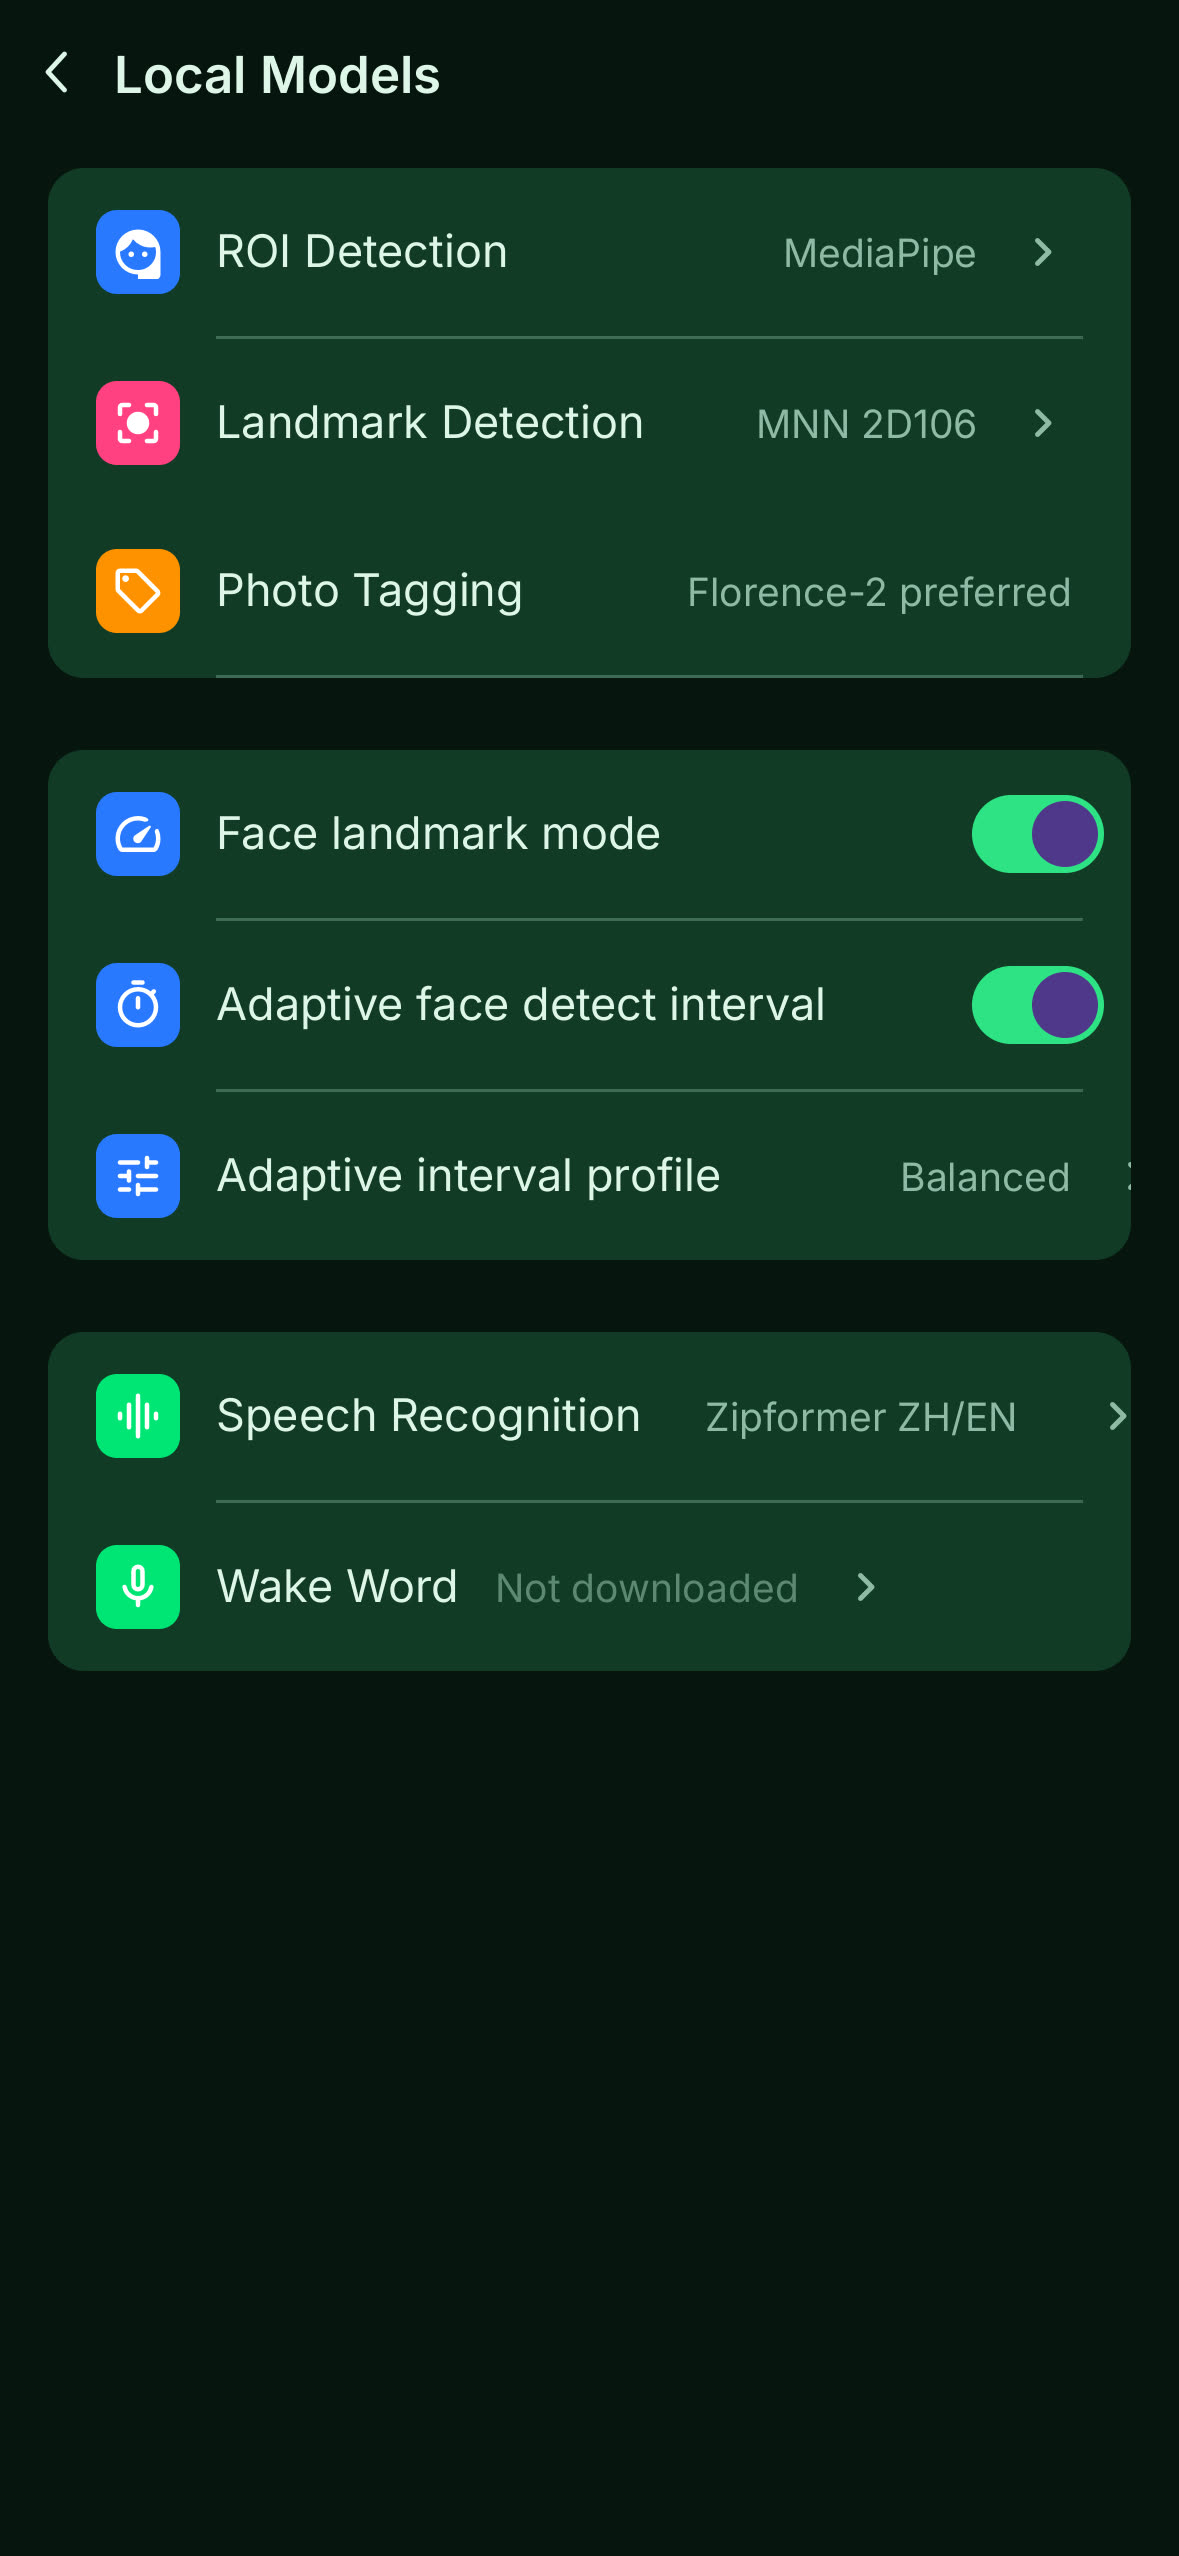
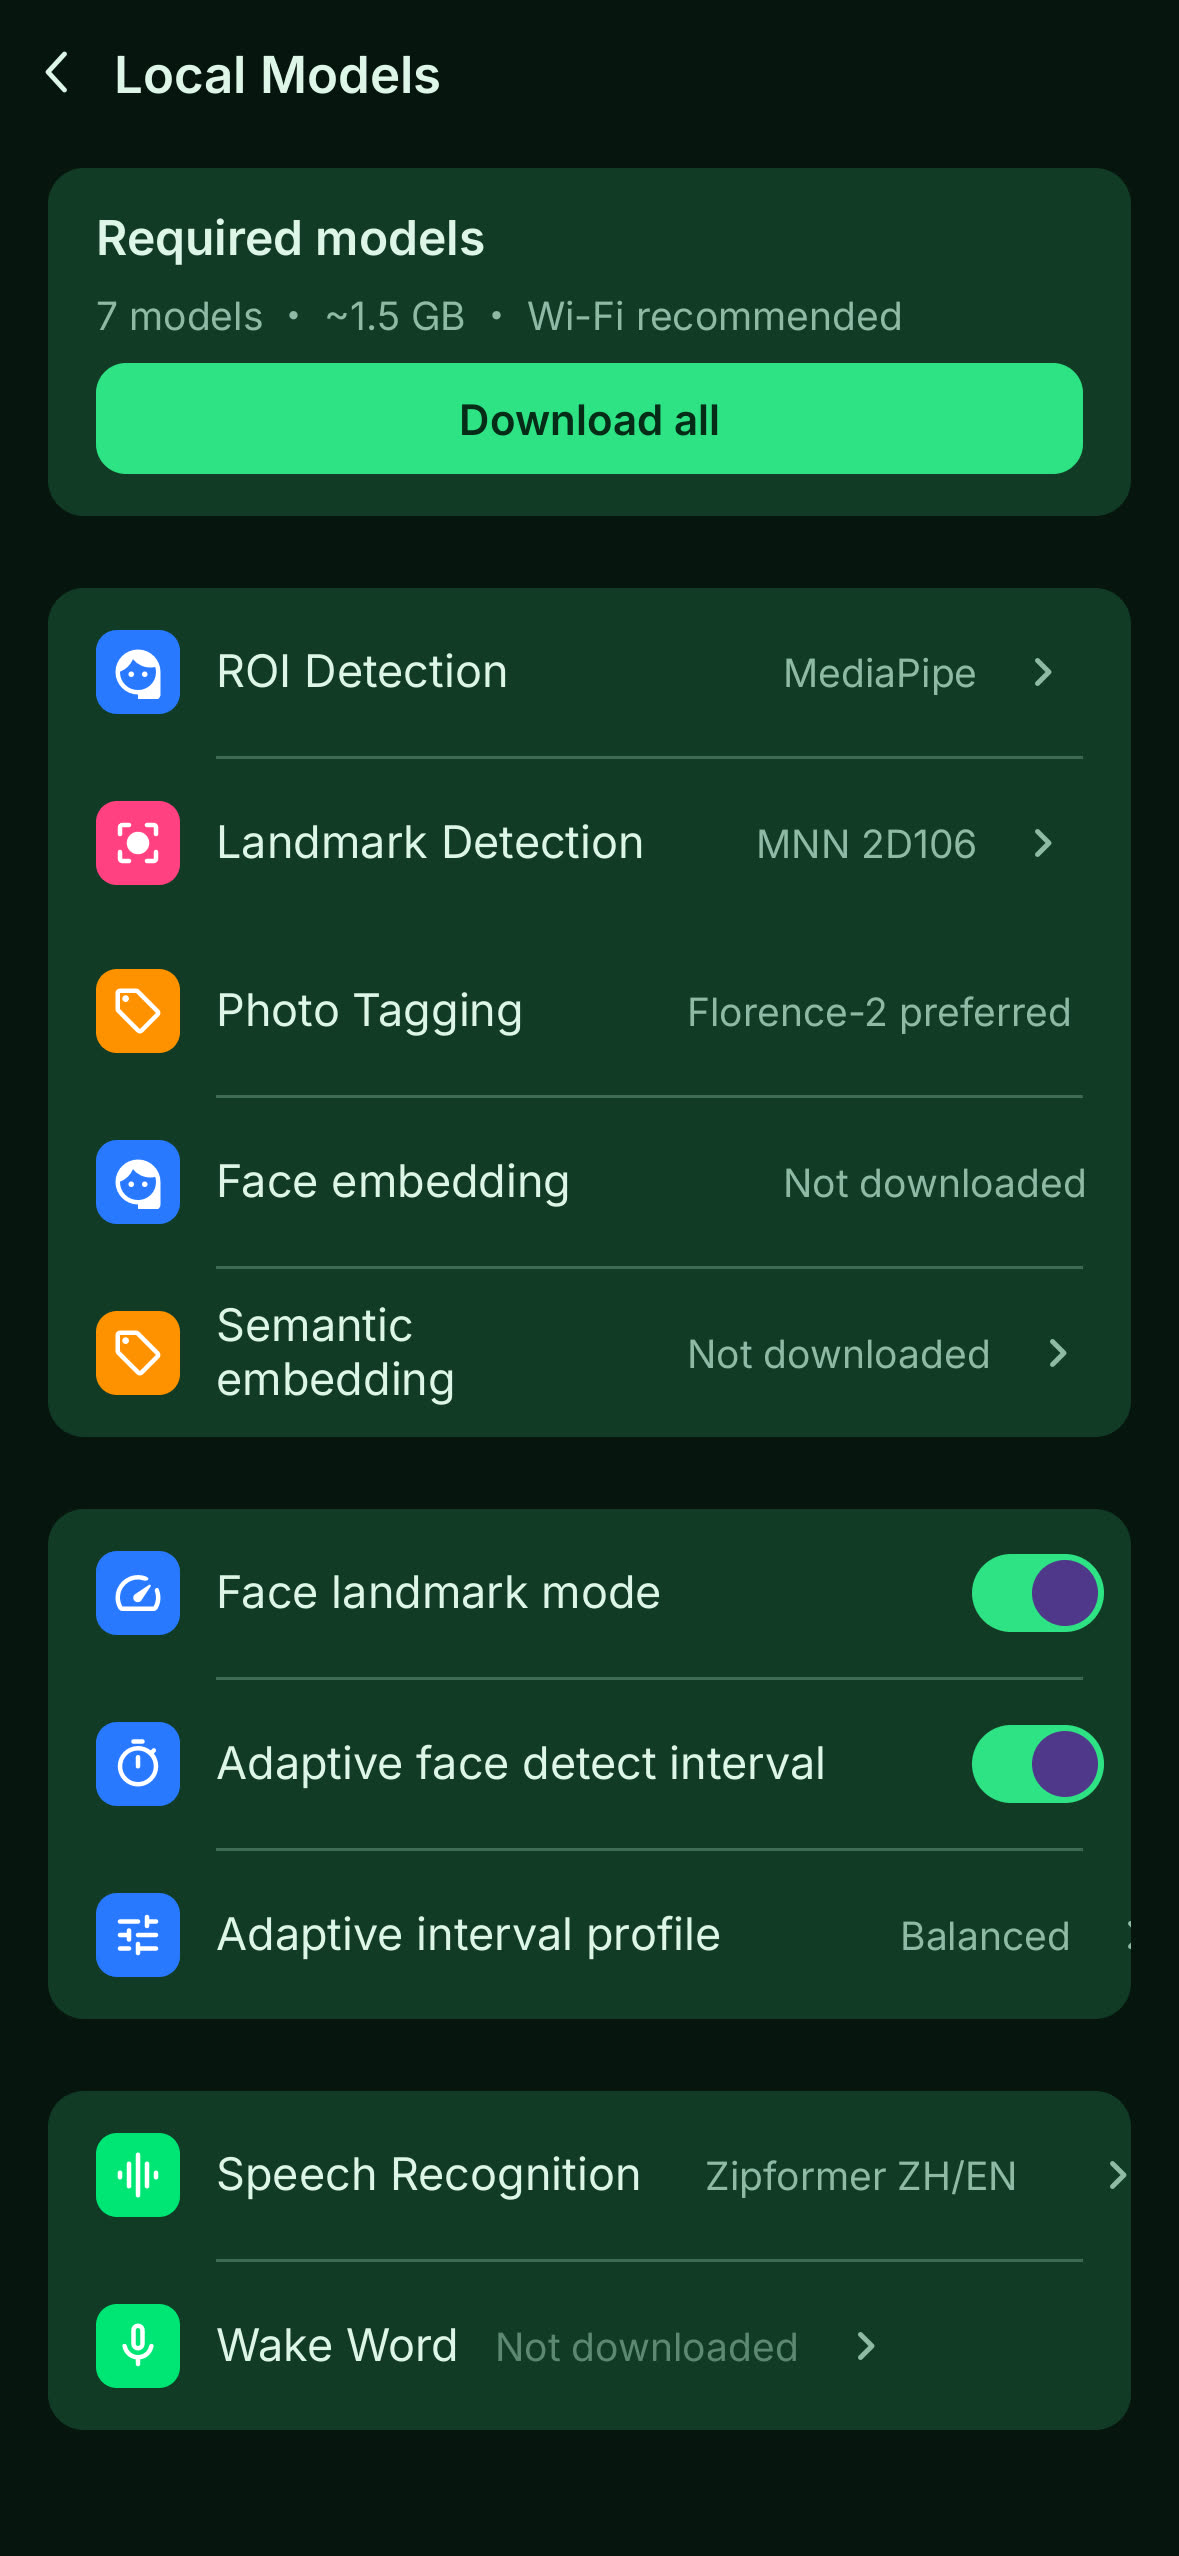
fix(site): 上手指南图彻底重做——设计稿补齐整屏完成度,废弃补黑边方案
- settings/local_models 设计帧补全(App 真实信息架构): 新增'必须模型'
  汇总卡(7个·1.5GB·一键下载,对齐 LlmModelManagerScreen)+人脸嵌入/
  语义编码两行(UI Language 集 7 个新双语变量),高度 852 整屏收满,
  7 个模型数与文案自洽
- setup-4 改为内容节点导出裁至 sec_ai_system 边界(914px)+24px 底
  呼吸,杜绝贴边截断;entry 换 organize/hub 全屏帧(贴合'从设置和
  相册整理开始'文案,根治与 setup-4 重复)
- 全组零黑边补丁:所有图=整屏帧直接渲染或干净边界裁切
- 坑:页级语言模式 pin 不传导到子节点导出(主题却生效),须在导出
  节点本体 pin 再验 SSIM≠1;zsh 变量不分词致 rsync 静默失败×2
- 双站已部署(xuxingzhiyuan.cn/polang.net/8100 三处字节一致),?v=-4

diff --git a/docs-site/index.html b/docs-site/index.html
@@ -89,13 +89,13 @@
       <div class="guide-carousel" id="guideCarousel">
         <div class="guide-viewport">
           <div class="guide-track">
-            <div class="guide-slide"><img src="assets/setup-1.jpg?v=20260918-3" alt="下载必备模型"><div class="guide-cap"><span class="gs">第 1 步</span><h3>📦 下载必备模型</h3><p>相册的打标、人脸识别、语义搜索都依赖端侧 AI 模型。在「模型中心 → 必须」一键下载，共 <b>7 个模型、约 1.5 GB</b>。</p><div class="gtags"><span class="gtag must">必需</span><span class="gtag">≈ 1.5 GB</span><span class="gtag">建议 WiFi</span></div></div></div>
-            <div class="guide-slide"><img src="assets/setup-2.jpg?v=20260918-3" alt="跑一次扫描"><div class="guide-cap"><span class="gs">第 2 步</span><h3>🔄 跑一次扫描</h3><p>进入底部 Tab「相册整理」→「扫描」开始扫描，让 App 认识相册里的人和画面（人脸 + 语义），约 <b>1.5 小时 / 万张</b>。记得开启<b>后台保活</b>。</p><div class="gtags"><span class="gtag must">必需</span><span class="gtag">~1.5 h / 万张</span></div></div></div>
-            <div class="guide-slide"><img src="assets/setup-3.jpg?v=20260918-3" alt="理解图片内容"><div class="guide-cap"><span class="gs">第 3 步</span><h3>🧠 理解图片内容</h3><p>想让「搜海边」「找夜景」更准？再跑一遍图片内容理解，生成场景、物体、活动标签，约 <b>24 小时 / 万张</b>，建议插电过夜。</p><div class="gtags"><span class="gtag opt">可选增强</span><span class="gtag">~24 h / 万张</span></div></div></div>
-            <div class="guide-slide"><img src="assets/setup-4.jpg?v=20260918-3" alt="注册账号领额度"><div class="guide-cap"><span class="gs">第 4 步</span><h3>🔑 注册账号领额度</h3><p>AI 对话默认走远程大模型，邮箱注册即享<b>更高的免费额度</b>（访客额度较少），对话需联网。</p><div class="gtags"><span class="gtag">远程对话</span><span class="gtag">免费额度</span></div></div></div>
-            <div class="guide-slide"><img src="assets/setup-5.jpg?v=20260918-3" alt="教 AI 认识你的人"><div class="guide-cap"><span class="gs">第 5 步</span><h3>👥 教 AI 认识你的人</h3><p>给识别出的人物<b>命名、标注关系</b>（家人 / 朋友…），并在「<b>AI 记忆</b>」补充事实，AI 在对话中会越来越懂你。</p><div class="gtags"><span class="gtag opt">让 AI 更聪明</span><span class="gtag">人物关系</span></div></div></div>
-            <div class="guide-slide"><img src="assets/setup-6.jpg?v=20260918-3" alt="远程控制"><div class="guide-cap"><span class="gs">第 6 步</span><h3>📡 远程控制（可选）</h3><p>配置<b>飞书 / Telegram</b>，在 IM 里用自然语言指挥相册，结果直接回到聊天。Telegram 长轮询，<b>无需公网 IP</b>。</p><div class="gtags"><span class="gtag opt">进阶</span><span class="gtag">飞书 / Telegram</span></div></div></div>
-            <div class="guide-slide"><img src="assets/setup-preview.jpg?v=20260918-3" alt="准备就绪"><div class="guide-cap"><span class="gs">准备就绪</span><h3>✨ 对 AI 说句话试试</h3><p>「找去年夏天在海边的照片」——命中相关照片并智能分组。所有搜索、人物、场景识别都<b>在本地完成</b>，照片不上传。</p><div class="gtags"><span class="gtag">本地隐私</span><span class="gtag">自然语言搜索</span></div></div></div>
+            <div class="guide-slide"><img src="assets/setup-1.jpg?v=20260918-4" alt="下载必备模型"><div class="guide-cap"><span class="gs">第 1 步</span><h3>📦 下载必备模型</h3><p>相册的打标、人脸识别、语义搜索都依赖端侧 AI 模型。在「模型中心 → 必须」一键下载，共 <b>7 个模型、约 1.5 GB</b>。</p><div class="gtags"><span class="gtag must">必需</span><span class="gtag">≈ 1.5 GB</span><span class="gtag">建议 WiFi</span></div></div></div>
+            <div class="guide-slide"><img src="assets/setup-2.jpg?v=20260918-4" alt="跑一次扫描"><div class="guide-cap"><span class="gs">第 2 步</span><h3>🔄 跑一次扫描</h3><p>进入底部 Tab「相册整理」→「扫描」开始扫描，让 App 认识相册里的人和画面（人脸 + 语义），约 <b>1.5 小时 / 万张</b>。记得开启<b>后台保活</b>。</p><div class="gtags"><span class="gtag must">必需</span><span class="gtag">~1.5 h / 万张</span></div></div></div>
+            <div class="guide-slide"><img src="assets/setup-3.jpg?v=20260918-4" alt="理解图片内容"><div class="guide-cap"><span class="gs">第 3 步</span><h3>🧠 理解图片内容</h3><p>想让「搜海边」「找夜景」更准？再跑一遍图片内容理解，生成场景、物体、活动标签，约 <b>24 小时 / 万张</b>，建议插电过夜。</p><div class="gtags"><span class="gtag opt">可选增强</span><span class="gtag">~24 h / 万张</span></div></div></div>
+            <div class="guide-slide"><img src="assets/setup-4.jpg?v=20260918-4" alt="注册账号领额度"><div class="guide-cap"><span class="gs">第 4 步</span><h3>🔑 注册账号领额度</h3><p>AI 对话默认走远程大模型，邮箱注册即享<b>更高的免费额度</b>（访客额度较少），对话需联网。</p><div class="gtags"><span class="gtag">远程对话</span><span class="gtag">免费额度</span></div></div></div>
+            <div class="guide-slide"><img src="assets/setup-5.jpg?v=20260918-4" alt="教 AI 认识你的人"><div class="guide-cap"><span class="gs">第 5 步</span><h3>👥 教 AI 认识你的人</h3><p>给识别出的人物<b>命名、标注关系</b>（家人 / 朋友…），并在「<b>AI 记忆</b>」补充事实，AI 在对话中会越来越懂你。</p><div class="gtags"><span class="gtag opt">让 AI 更聪明</span><span class="gtag">人物关系</span></div></div></div>
+            <div class="guide-slide"><img src="assets/setup-6.jpg?v=20260918-4" alt="远程控制"><div class="guide-cap"><span class="gs">第 6 步</span><h3>📡 远程控制（可选）</h3><p>配置<b>飞书 / Telegram</b>，在 IM 里用自然语言指挥相册，结果直接回到聊天。Telegram 长轮询，<b>无需公网 IP</b>。</p><div class="gtags"><span class="gtag opt">进阶</span><span class="gtag">飞书 / Telegram</span></div></div></div>
+            <div class="guide-slide"><img src="assets/setup-preview.jpg?v=20260918-4" alt="准备就绪"><div class="guide-cap"><span class="gs">准备就绪</span><h3>✨ 对 AI 说句话试试</h3><p>「找去年夏天在海边的照片」——命中相关照片并智能分组。所有搜索、人物、场景识别都<b>在本地完成</b>，照片不上传。</p><div class="gtags"><span class="gtag">本地隐私</span><span class="gtag">自然语言搜索</span></div></div></div>
           </div>
         </div>
         <button class="guide-arrow guide-prev" aria-label="上一张">‹</button>

diff --git a/docs-site/getting-started.html b/docs-site/getting-started.html
@@ -160,7 +160,7 @@
           <h3>📦 一切从「设置」和底部「相册整理」开始</h3>
           <p>模型下载、账号、人物与远程通道在 App 的「设置」里；扫描入口在底部 Tab「相册整理」→「扫描」。下面每一步都标注了具体入口，界面以最新版本为准。</p>
         </div>
-        <img class="shot" src="assets/setup-entry.jpg?v=20260918-3" alt="设置页入口总览">
+        <img class="shot" src="assets/setup-entry.jpg?v=20260918-4" alt="设置页入口总览">
       </div>
 
       <div class="steps">
@@ -171,12 +171,12 @@
             <p class="step-desc">相册的打标、人脸识别、语义搜索都依赖端侧 AI 模型。进入<b>「模型中心 → 必须」</b>一键下载（共 7 个，约 1.5 GB）。「推荐」里的抠图、语音模型可按需下载。</p>
             <div class="tags"><span class="tag must">必需</span><span class="tag">≈ 1.5 GB</span><span class="tag">建议 WiFi</span></div>
           </div>
-          <div class="step-img"><img src="assets/setup-1.jpg?v=20260918-3" alt="模型中心 · 必须模型"></div>
+          <div class="step-img"><img src="assets/setup-1.jpg?v=20260918-4" alt="模型中心 · 必须模型"></div>
         </div>
 
         <!-- Step 2 -->
         <div class="step alt">
-          <div class="step-img"><img src="assets/setup-2.jpg?v=20260918-3" alt="TAG 生成控制 · 扫描中"></div>
+          <div class="step-img"><img src="assets/setup-2.jpg?v=20260918-4" alt="TAG 生成控制 · 扫描中"></div>
           <div class="step-text">
             <div class="step-head"><span class="step-num">2</span><span class="step-title">跑一次 Pass 1 扫描</span></div>
             <p class="step-desc">让 App 认识你相册里的<b>人和画面</b>。进入底部 Tab<b>「相册整理」→「扫描」</b>开始扫描（人脸检测 + 语义编码，约 1.5 小时 / 万张）。记得按提示开启<b>后台保活</b>，否则退到后台可能被系统暂停。界面以最新版本为准。</p>
@@ -191,12 +191,12 @@
             <p class="step-desc">想让「搜海边」「找夜景」「一家人野餐」搜得更准？再跑一遍<b>「图片内容理解」</b>，为每张照片生成场景、物体、活动标签。约 24 小时 / 万张，<b>建议插电过夜</b>。可随时暂停，已处理的不重复。</p>
             <div class="tags"><span class="tag opt">可选增强</span><span class="tag">~24 h / 万张</span></div>
           </div>
-          <div class="step-img"><img src="assets/setup-3.jpg?v=20260918-3" alt="TAG 生成控制 · 三阶段概览"></div>
+          <div class="step-img"><img src="assets/setup-3.jpg?v=20260918-4" alt="TAG 生成控制 · 三阶段概览"></div>
         </div>
 
         <!-- Step 4 -->
         <div class="step alt">
-          <div class="step-img"><img src="assets/setup-4.jpg?v=20260918-3" alt="账号 · 免费额度"></div>
+          <div class="step-img"><img src="assets/setup-4.jpg?v=20260918-4" alt="账号 · 免费额度"></div>
           <div class="step-text">
             <div class="step-head"><span class="step-num">4</span><span class="step-title">注册账号领额度</span></div>
             <p class="step-desc">AI 对话<b>默认走远程大模型</b>，体验最佳。用邮箱注册账号即可获得更高的<b>免费额度</b>（访客额度较少），用完会有降级提示。</p>
@@ -211,12 +211,12 @@
             <p class="step-desc">扫描后会自动识别人物。给每个人<b>命名、标注关系</b>（家人 / 朋友 / 同事…），再在<b>「AI 记忆」</b>里补充一些事实，AI 在对话中就会越来越懂你。</p>
             <div class="tags"><span class="tag opt">让 AI 更聪明</span><span class="tag">人物关系</span></div>
           </div>
-          <div class="step-img"><img src="assets/setup-5.jpg?v=20260918-3" alt="编辑人物 · 名称与关系"></div>
+          <div class="step-img"><img src="assets/setup-5.jpg?v=20260918-4" alt="编辑人物 · 名称与关系"></div>
         </div>
 
         <!-- Step 6 -->
         <div class="step alt">
-          <div class="step-img"><img src="assets/setup-6.jpg?v=20260918-3" alt="通信通道 · 飞书 / Telegram"></div>
+          <div class="step-img"><img src="assets/setup-6.jpg?v=20260918-4" alt="通信通道 · 飞书 / Telegram"></div>
           <div class="step-text">
             <div class="step-head"><span class="step-num">6</span><span class="step-title">（可选）远程控制</span></div>
             <p class="step-desc">配置<b>飞书 / Telegram</b> 通道，就能在 IM 里用自然语言指挥相册（如「把昨天的风景照发我」），结果直接回到聊天。Telegram 长轮询连接，<b>无需公网 IP</b>。</p>
@@ -236,7 +236,7 @@
           <p class="say">「找去年夏天在海边的照片」</p>
           <p class="do">🗂 命中相关照片，按时间智能分组 —— 一切搜索、人物、场景识别都在你的手机本地完成，照片不会上传。</p>
         </div>
-        <div class="step-img"><img src="assets/setup-preview.jpg?v=20260918-3" alt="AI 助手小浪 · 自然语言搜索"></div>
+        <div class="step-img"><img src="assets/setup-preview.jpg?v=20260918-4" alt="AI 助手小浪 · 自然语言搜索"></div>
       </div>
     </div>
   </section>
